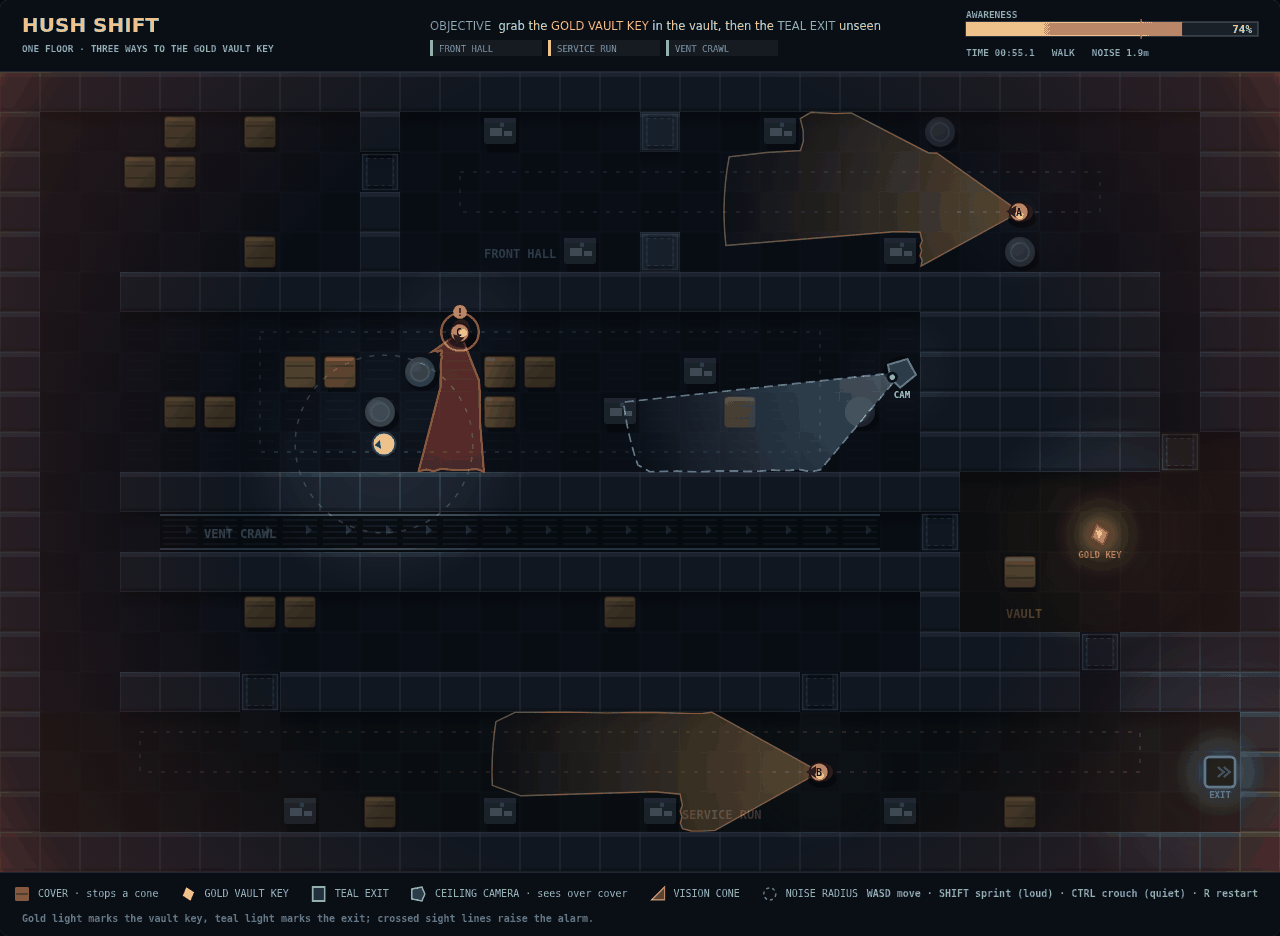
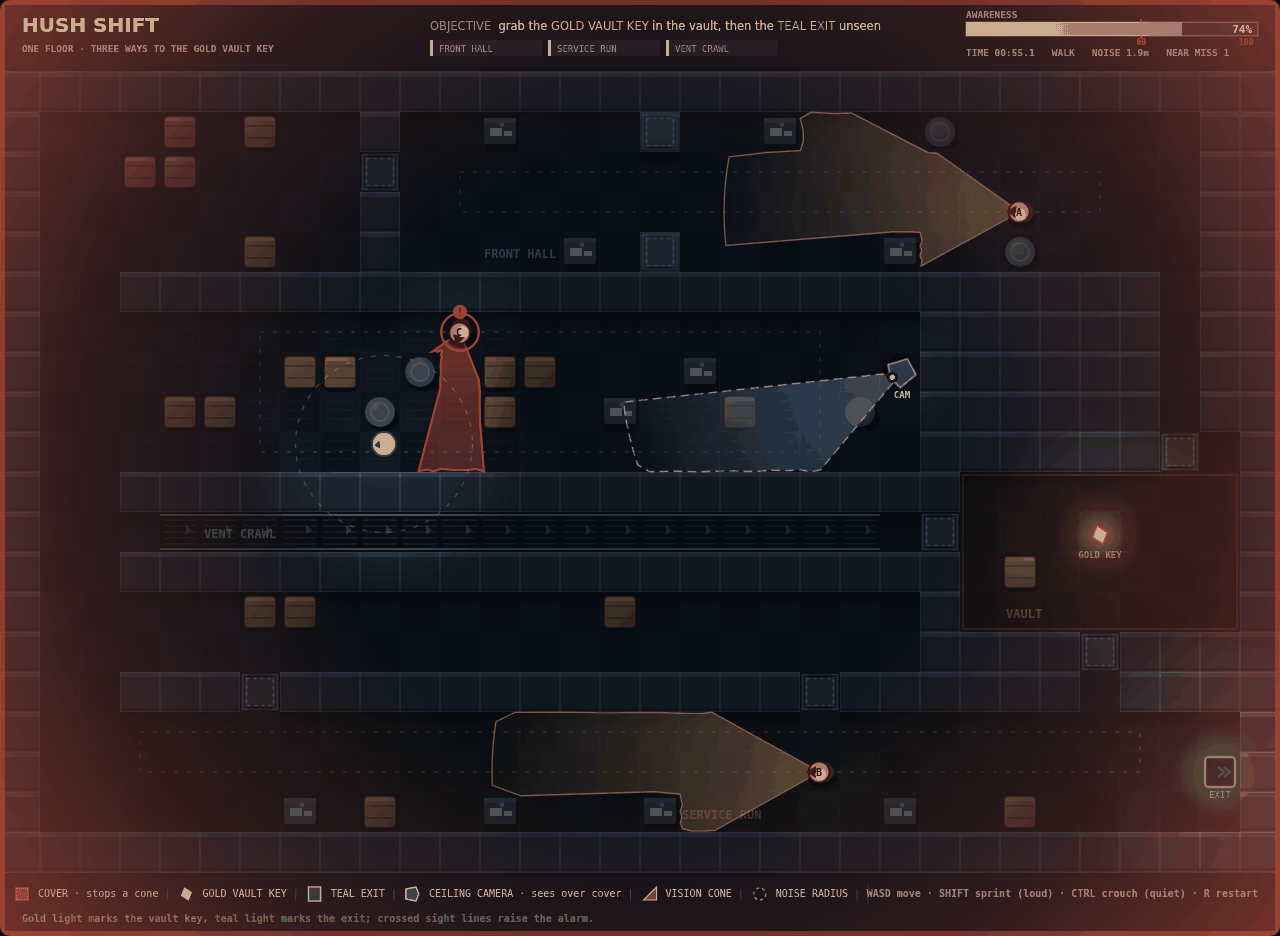
game: meter labels, breadcrumb trail, edge alarm and a merged README layout

diff --git a/game/src/hud.js b/game/src/hud.js
@@ -178,8 +178,17 @@ function drawTopStrip(ctx, world) {
   const barW = 292;
   const barY = 22;
   const barH = 14;
-  text(ctx, world.hidden ? 'HIDDEN · METER DRAINING' : 'AWARENESS', barX, barY - 4,
-    world.hidden ? PAL.teal : PAL.dim, 9.5, MONO);
+  text(ctx, 'AWARENESS', barX, barY - 4, PAL.dim, 9.5, MONO);
+  if (world.hidden) {
+    const labelX = barX + 78;
+    ctx.save();
+    ctx.fillStyle = 'rgba(67,220,178,0.16)';
+    ctx.fillRect(labelX, barY - 12, 62, 11);
+    ctx.fillStyle = PAL.teal;
+    ctx.font = `700 9px ${MONO}`;
+    ctx.fillText('HIDDEN', labelX + 7, barY - 4);
+    ctx.restore();
+  }
   ctx.save();
   ctx.fillStyle = 'rgba(255,255,255,0.07)';
   ctx.fillRect(barX, barY, barW, barH);
@@ -202,6 +211,12 @@ function drawTopStrip(ctx, world) {
   ctx.stroke();
   ctx.strokeStyle = 'rgba(255,255,255,0.22)';
   ctx.strokeRect(barX, barY, barW, barH);
+  ctx.fillStyle = 'rgba(238,91,65,0.85)';
+  ctx.font = `700 8px ${MONO}`;
+  ctx.textAlign = 'center';
+  ctx.fillText('60', tick, barY + barH + 9);
+  ctx.fillStyle = 'rgba(238,91,65,0.55)';
+  ctx.fillText('100', barX + barW - 12, barY + barH + 9);
   ctx.fillStyle = PAL.text;
   ctx.font = `700 11px ${MONO}`;
   ctx.textAlign = 'right';
@@ -210,7 +225,8 @@ function drawTopStrip(ctx, world) {
 
   const mm = String(Math.floor(world.time / 60)).padStart(2, '0');
   const ss = (world.time % 60).toFixed(1).padStart(4, '0');
-  const status = `TIME ${mm}:${ss}   ${STANCE_LABEL[world.stance] ?? 'WALK'}   NOISE ${world.noise.toFixed(1)}m`;
+  const danger = world.awareness >= AWARE.nearMiss ? `   NEAR MISS ${world.nearMisses}` : '';
+  const status = `TIME ${mm}:${ss}   ${STANCE_LABEL[world.stance] ?? 'WALK'}   NOISE ${world.noise.toFixed(1)}m${danger}`;
   text(ctx, status, barX, 56, PAL.dim, 9.5, MONO);
 }
 
@@ -227,10 +243,22 @@ function drawBottomStrip(ctx, world) {
   ctx.font = `500 10px ${MONO}`;
   for (const [glyph, title] of LEGEND) {
     glyph(ctx, x, y0 + 22);
-    ctx.fillStyle = 'rgba(180,196,212,0.85)';
+    ctx.fillStyle = 'rgba(190,206,222,0.92)';
     ctx.fillText(title, x + 16, y0 + 25);
-    x += ctx.measureText(title).width + 46;
+    x += ctx.measureText(title).width + 22;
+    if (x < 900) {
+      ctx.fillStyle = 'rgba(150,180,210,0.3)';
+      ctx.fillText('|', x, y0 + 25);
+      x += 22;
+    } else {
+      x += 24;
+    }
   }
+  ctx.strokeStyle = 'rgba(150,180,210,0.18)';
+  ctx.beginPath();
+  ctx.moveTo(x - 8, y0 + 12);
+  ctx.lineTo(x - 8, y0 + 32);
+  ctx.stroke();
   ctx.restore();
 
   text(ctx, 'WASD move · SHIFT sprint (loud) · CTRL crouch (quiet) · R restart',
@@ -248,10 +276,10 @@ function drawBottomStrip(ctx, world) {
 
   if (world.phase === 'clean') {
     const near = world.nearMisses;
-    card(ctx, PAL.exit, 'CLEAN EXIT', [
+    card(ctx, PAL.exit, near === 0 ? 'CLEAN EXIT' : 'EXIT MADE', [
       `Out with the gold vault key in ${world.time.toFixed(1)} seconds.`,
-      `Route taken: ${routeLabel(world)}.`,
-      near === 0 ? 'No alarm raised: no cone ever held you.' : `Near misses survived: ${near}.`,
+      `Route taken: ${routeLabel(world)}, traced behind this card.`,
+      near === 0 ? 'The alarm never went up: no cone ever held you.' : `Cones held you ${near} time${near === 1 ? '' : 's'}; the meter never filled.`,
     ], 'Press R to run another route through the same floor.');
   }
 }
@@ -263,7 +291,7 @@ function card(ctx, accent, title, lines, hint) {
   const y = HUD_TOP + (VIEW_H - h) / 2;
 
   ctx.save();
-  ctx.fillStyle = 'rgba(4,7,11,0.74)';
+  ctx.fillStyle = 'rgba(4,7,11,0.62)';
   ctx.fillRect(0, HUD_TOP, VIEW_W, VIEW_H);
   ctx.fillStyle = 'rgba(10,15,22,0.97)';
   ctx.strokeStyle = 'rgba(150,180,210,0.22)';

diff --git a/game/src/actors.js b/game/src/actors.js
@@ -11,6 +11,22 @@ function conePath(ctx, pts) {
   ctx.closePath();
 }
 
+export function drawTrail(ctx, world) {
+  if (world.trail.length < 2) return;
+  ctx.save();
+  ctx.strokeStyle = 'rgba(226,236,246,0.16)';
+  ctx.lineWidth = 3;
+  ctx.lineJoin = 'round';
+  ctx.lineCap = 'round';
+  ctx.beginPath();
+  world.trail.forEach((point, index) => {
+    if (index === 0) ctx.moveTo(point.x * TILE, point.y * TILE);
+    else ctx.lineTo(point.x * TILE, point.y * TILE);
+  });
+  ctx.stroke();
+  ctx.restore();
+}
+
 export function drawGuardCone(ctx, g) {
   const pts = conePolygon(g.x, g.y, g.angle, g.fov, g.range);
   const hot = g.alert > 0.45;
@@ -79,7 +95,7 @@ export function drawGuard(ctx, g) {
   // Shoulders, then the head: a guard reads as a person, not a dot.
   ctx.fillStyle = PAL.guardDark;
   ctx.beginPath();
-  ctx.ellipse(-1, 0, 12, 9.5, 0, 0, Math.PI * 2);
+  ctx.ellipse(-1, 0, 13, 10.5, 0, 0, Math.PI * 2);
   ctx.fill();
 
   const body = ctx.createRadialGradient(0, -4, 2, 0, 0, 12);
@@ -87,7 +103,7 @@ export function drawGuard(ctx, g) {
   body.addColorStop(1, PAL.guard);
   ctx.fillStyle = body;
   ctx.beginPath();
-  ctx.arc(1, 0, 9.5, 0, Math.PI * 2);
+  ctx.arc(1, 0, 10.5, 0, Math.PI * 2);
   ctx.fill();
   ctx.strokeStyle = 'rgba(30,10,6,0.85)';
   ctx.lineWidth = 1.8;
@@ -189,7 +205,7 @@ export function drawPlayer(ctx, world) {
   ctx.ellipse(x + 1, y + 6, crouched ? 9 : 11, 6, 0, 0, Math.PI * 2);
   ctx.fill();
 
-  const rad = crouched ? 9 : 11.5;
+  const rad = crouched ? 9.5 : 12;
   const body = ctx.createRadialGradient(x - 3, y - 4, 2, x, y, rad + 2);
   body.addColorStop(0, '#ffffff');
   body.addColorStop(1, PAL.player);
@@ -252,13 +268,17 @@ export function drawEffects(ctx, world) {
     const heat = (world.awareness - AWARE.nearMiss) / (AWARE.caught - AWARE.nearMiss);
     const pulse = 0.5 + 0.5 * Math.sin(world.clock * 9) + world.nearFlash * 0.5;
     const alpha = Math.min(0.62, 0.18 + heat * 0.34 + pulse * 0.1);
-    const grad = ctx.createRadialGradient(width / 2, height / 2, height * 0.44, width / 2, height / 2, height * 0.86);
+    const grad = ctx.createRadialGradient(width / 2, height / 2, height * 0.34, width / 2, height / 2, height * 0.82);
     grad.addColorStop(0, 'rgba(238,91,65,0)');
-    grad.addColorStop(0.72, `rgba(238,91,65,${alpha * 0.35})`);
+    grad.addColorStop(0.55, `rgba(238,91,65,${alpha * 0.4})`);
     grad.addColorStop(1, `rgba(238,91,65,${alpha})`);
     ctx.save();
     ctx.fillStyle = grad;
     ctx.fillRect(0, 0, width, height);
+    // A hard red frame, the way an alarm panel edges the room.
+    ctx.strokeStyle = `rgba(238,91,65,${0.25 + heat * 0.4})`;
+    ctx.lineWidth = 5;
+    ctx.strokeRect(2.5, 2.5, width - 5, height - 5);
     ctx.restore();
   }
 }

diff --git a/game/src/art.js b/game/src/art.js
@@ -131,9 +131,9 @@ function paintDoorMat(ctx, x, y) {
   const px = x * TILE;
   const py = y * TILE;
   ctx.save();
-  ctx.fillStyle = 'rgba(140,190,225,0.12)';
-  ctx.fillRect(px + 6, py + 6, TILE - 12, TILE - 12);
-  ctx.strokeStyle = 'rgba(160,205,235,0.3)';
+  ctx.fillStyle = 'rgba(150,205,240,0.2)';
+  ctx.fillRect(px + 5, py + 5, TILE - 10, TILE - 10);
+  ctx.strokeStyle = 'rgba(180,225,255,0.55)';
   ctx.setLineDash([3, 4]);
   ctx.lineWidth = 1.2;
   ctx.strokeRect(px + 6.5, py + 6.5, TILE - 13, TILE - 13);
@@ -386,6 +386,12 @@ export function paintProps(ctx, world) {
     paintDoorMat(ctx, door.x, door.y);
     paintDoorJamb(ctx, door.x, door.y);
   }
+  ctx.save();
+  ctx.strokeStyle = 'rgba(244,196,85,0.22)';
+  ctx.lineWidth = 2;
+  ctx.strokeRect(24 * TILE + 3, 10 * TILE + 3, 7 * TILE - 6, 4 * TILE - 6);
+  ctx.restore();
+
   paintKey(ctx, world);
   paintExit(ctx, world);
 

diff --git a/game/src/shots.js b/game/src/shots.js
@@ -102,6 +102,13 @@ export function applyPose(world, pose) {
     world.camera.angle = 3.3;
     world.routeMeters.front = 12;
     world.routeMeters.service = 78;
+    world.trail = [
+      { x: 2.5, y: 2.5 }, { x: 2.5, y: 6 }, { x: 2.5, y: 9.5 }, { x: 2.2, y: 13 },
+      { x: 2.5, y: 16.6 }, { x: 7, y: 16.6 }, { x: 12, y: 17.4 }, { x: 18, y: 17.2 },
+      { x: 24, y: 16.6 }, { x: 27.2, y: 16.4 }, { x: 27.2, y: 15.2 }, { x: 27.3, y: 13.6 },
+      { x: 27.2, y: 11.4 }, { x: 28.4, y: 11.2 }, { x: 29.2, y: 12.6 }, { x: 28.6, y: 14.4 },
+      { x: 27.4, y: 15.4 }, { x: 27.6, y: 16.6 }, { x: 29.4, y: 17.2 }, { x: 30.1, y: 17.4 },
+    ];
   }
 }
 

diff --git a/game/src/main.js b/game/src/main.js
@@ -12,6 +12,7 @@ import {
   drawEffects,
   drawGuard,
   drawGuardCone,
+  drawTrail,
   drawNoise,
   drawPlayer,
 } from './actors.js';
@@ -85,6 +86,7 @@ function draw() {
   paintProps(ctx, world);
   paintLightmap(ctx, world);
 
+  drawTrail(ctx, world);
   drawCameraCone(ctx, world.camera);
   for (const guard of world.guards) drawGuardCone(ctx, guard);
 
@@ -94,8 +96,8 @@ function draw() {
   drawPlayer(ctx, world);
   ctx.restore();
 
-  drawEffects(ctx, world);
   drawHud(ctx, world);
+  drawEffects(ctx, world);
 }
 
 let last = performance.now();

diff --git a/game/src/player.js b/game/src/player.js
@@ -37,6 +37,14 @@ export function updatePlayer(world, dt, move, events) {
     p.angle = Math.atan2(move.dy, move.dx);
   }
 
+  // Breadcrumbs: the path the run took, drawn faintly so a route can be read back.
+  world.trailTimer -= dt;
+  if (move.moving && world.trailTimer <= 0) {
+    world.trailTimer = 0.28;
+    world.trail.push({ x: p.x, y: p.y });
+    if (world.trail.length > 600) world.trail.shift();
+  }
+
   const route = routeAt(p.x, p.y);
   if (route) world.routeMeters[route] += p.speed * dt;
 

diff --git a/game/src/state.js b/game/src/state.js
@@ -52,6 +52,8 @@ export function createState() {
     keyTile: { x: key.x + 0.5, y: key.y + 0.5 },
     exitTile: { x: exit.x + 0.5, y: exit.y + 0.5 },
     routeMeters: { front: 0, service: 0, vent: 0 },
+    trail: [],
+    trailTimer: 0,
     shot: null,
   };
 }

diff --git a/README.md b/README.md
@@ -16,12 +16,14 @@ Then open http://127.0.0.1:8099/ — `WASD` move, `Shift` sprint, `Ctrl` crouch,
 
 ## Layout
 
-- `game/src/level.js` — the floor plan as text, plus tile rules.
-- `game/src/state.js` — world state, collision, reset and poses.
-- `game/src/patrol.js`, `vision.js` — guard routes and the cone that cover blocks.
-- `game/src/actors.js`, `player.js`, `input.js` — movement, noise, footsteps.
-- `game/src/art.js`, `hud.js`, `audio.js`, `main.js` — drawing, HUD, generated sound, loop.
-- `screenshots/` — cover, hide, close and win poses.
+- `game/src/config.js` — the floor plan as text, patrol routes, camera and tuning numbers.
+- `game/src/level.js` — tile queries, line of sight, clipped cone polygons, route zoning.
+- `game/src/state.js` — the mutable world: player, guards, camera, meters.
+- `game/src/patrol.js`, `vision.js` — guard routes, the cone that cover blocks, awareness.
+- `game/src/actors.js`, `player.js`, `input.js` — movement, noise, footsteps, the moving floor.
+- `game/src/art.js`, `hud.js`, `audio.js`, `main.js` — still floor and light map, HUD, generated sound, loop.
+- `game/src/shots.js` — the deterministic poses the screenshots use.
+- `screenshots/` — cover, hide, close and win poses, packed by `tools/pack_shots.py`.
 - `main.ts` — the hand-in: packs `game/` and `screenshots/` with `dossier.json` into `MAKEFUN_OUTPUT_DIR`.
 
 ---
